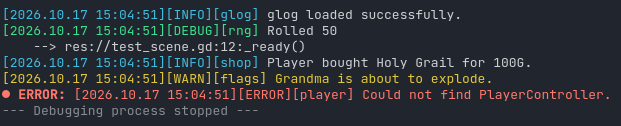
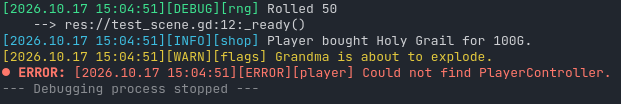
cleaned up readme

Changed region(s): [[0.0, 0.3173, 0.9791, 0.9231], [0.0, 0.0, 0.7343, 0.2885]]

diff --git a/README.md b/README.md
@@ -16,8 +16,7 @@ A simple GDScript logger for [Godot Engine 4](https://godotengine.org/).
 
 Requires Godot 4.6 or newer.
 
-Optional: the link to the asset page can be found
-[here](https://store.godotengine.org/asset/njs-guy/glog/).
+[Asset Store page](https://store.godotengine.org/asset/njs-guy/glog/) (optional)
 
 1. Click on the "Asset Store" tab at the top of the Godot Editor.
 2. Search for "glog" in the search bar. The author is "njs-guy".
@@ -25,7 +24,6 @@ Optional: the link to the asset page can be found
 4. From there, Godot will download and extract the addon.
 5. Enable the addon through `Project -> Project Settings... -> Plugins -> Glog`.
 6. Under `Project Settings -> Globals`, move `Glog` to the top of the list.
-7. An autoload singleton will be added under the name `Glog`.
 
 ### Manual
 
@@ -37,7 +35,6 @@ Requires Godot 4.1.4 or newer.
 3. Move the `glog` folder into your project under `addons/`.
 4. Enable the addon through `Project -> Project Settings... -> Plugins -> Glog`.
 5. Under `Project Settings -> Globals`, move `Glog` to the top of the list.
-6. An autoload singleton will be added under the name `Glog`.
 
 ### Minimum Godot version
 
@@ -55,7 +52,8 @@ So while you _can_ use Glog in Godot 4.0.4, it's not recommended.
 
 ## Usage
 
-After the addon is enabled, you can use the logger like this:
+After the addon is enabled, you can use the logger like this. The first argument
+is for the log category or scope, and the second is for the message itself.
 
 ```gdscript
 Glog.debug("rng", "Rolled 50")
@@ -67,9 +65,6 @@ Glog.error("player", "Could not find PlayerController.")
 Which will give the following output:
 
 ![Output screenshot](assets/output_screenshot.png "Output screenshot")
-
-The first argument is for the log category or scope, and the second is for the
-message itself.
 
 The tags at the beginning of the message will be colored in the Godot output
 panel. Their colors can be changed in the project settings, or on a per-message
